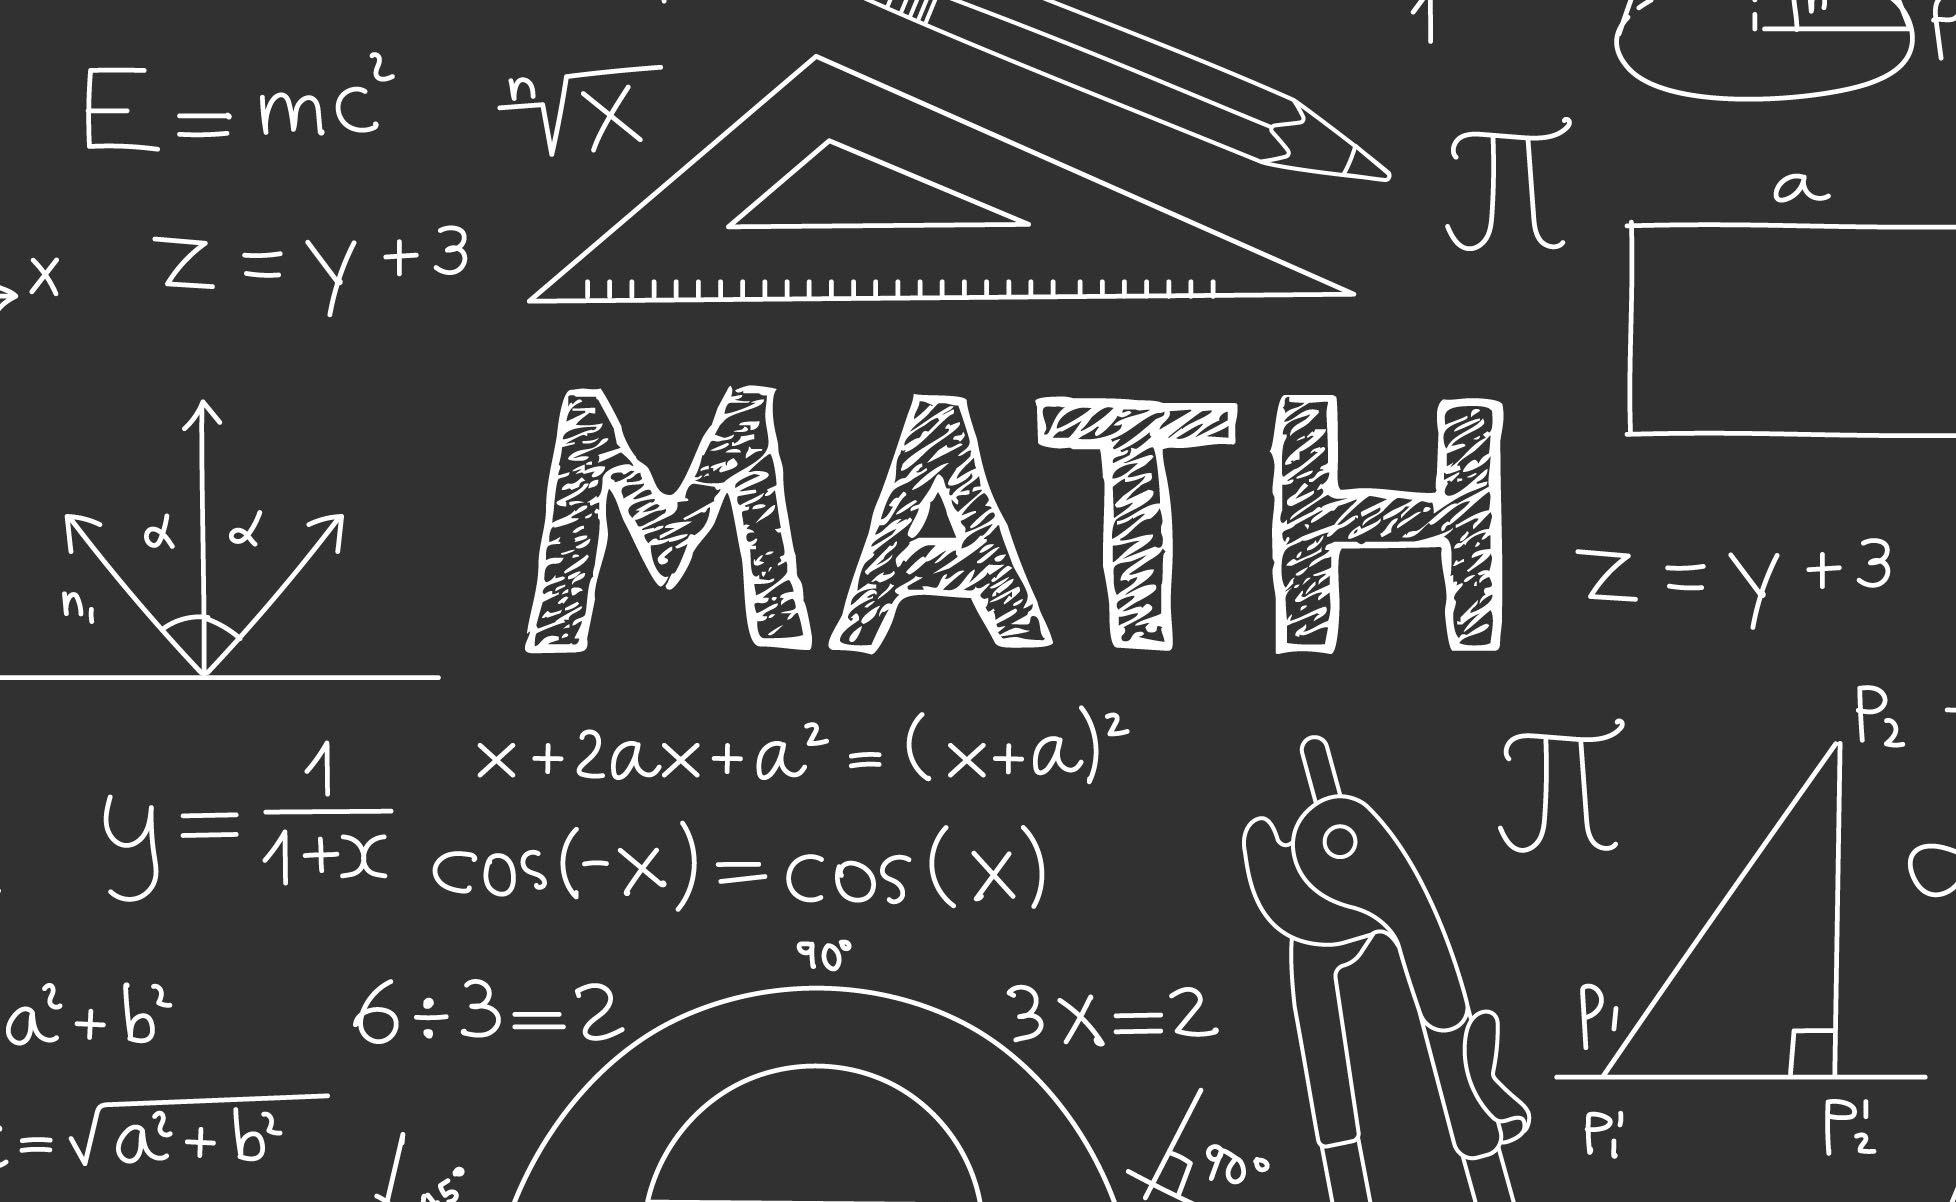
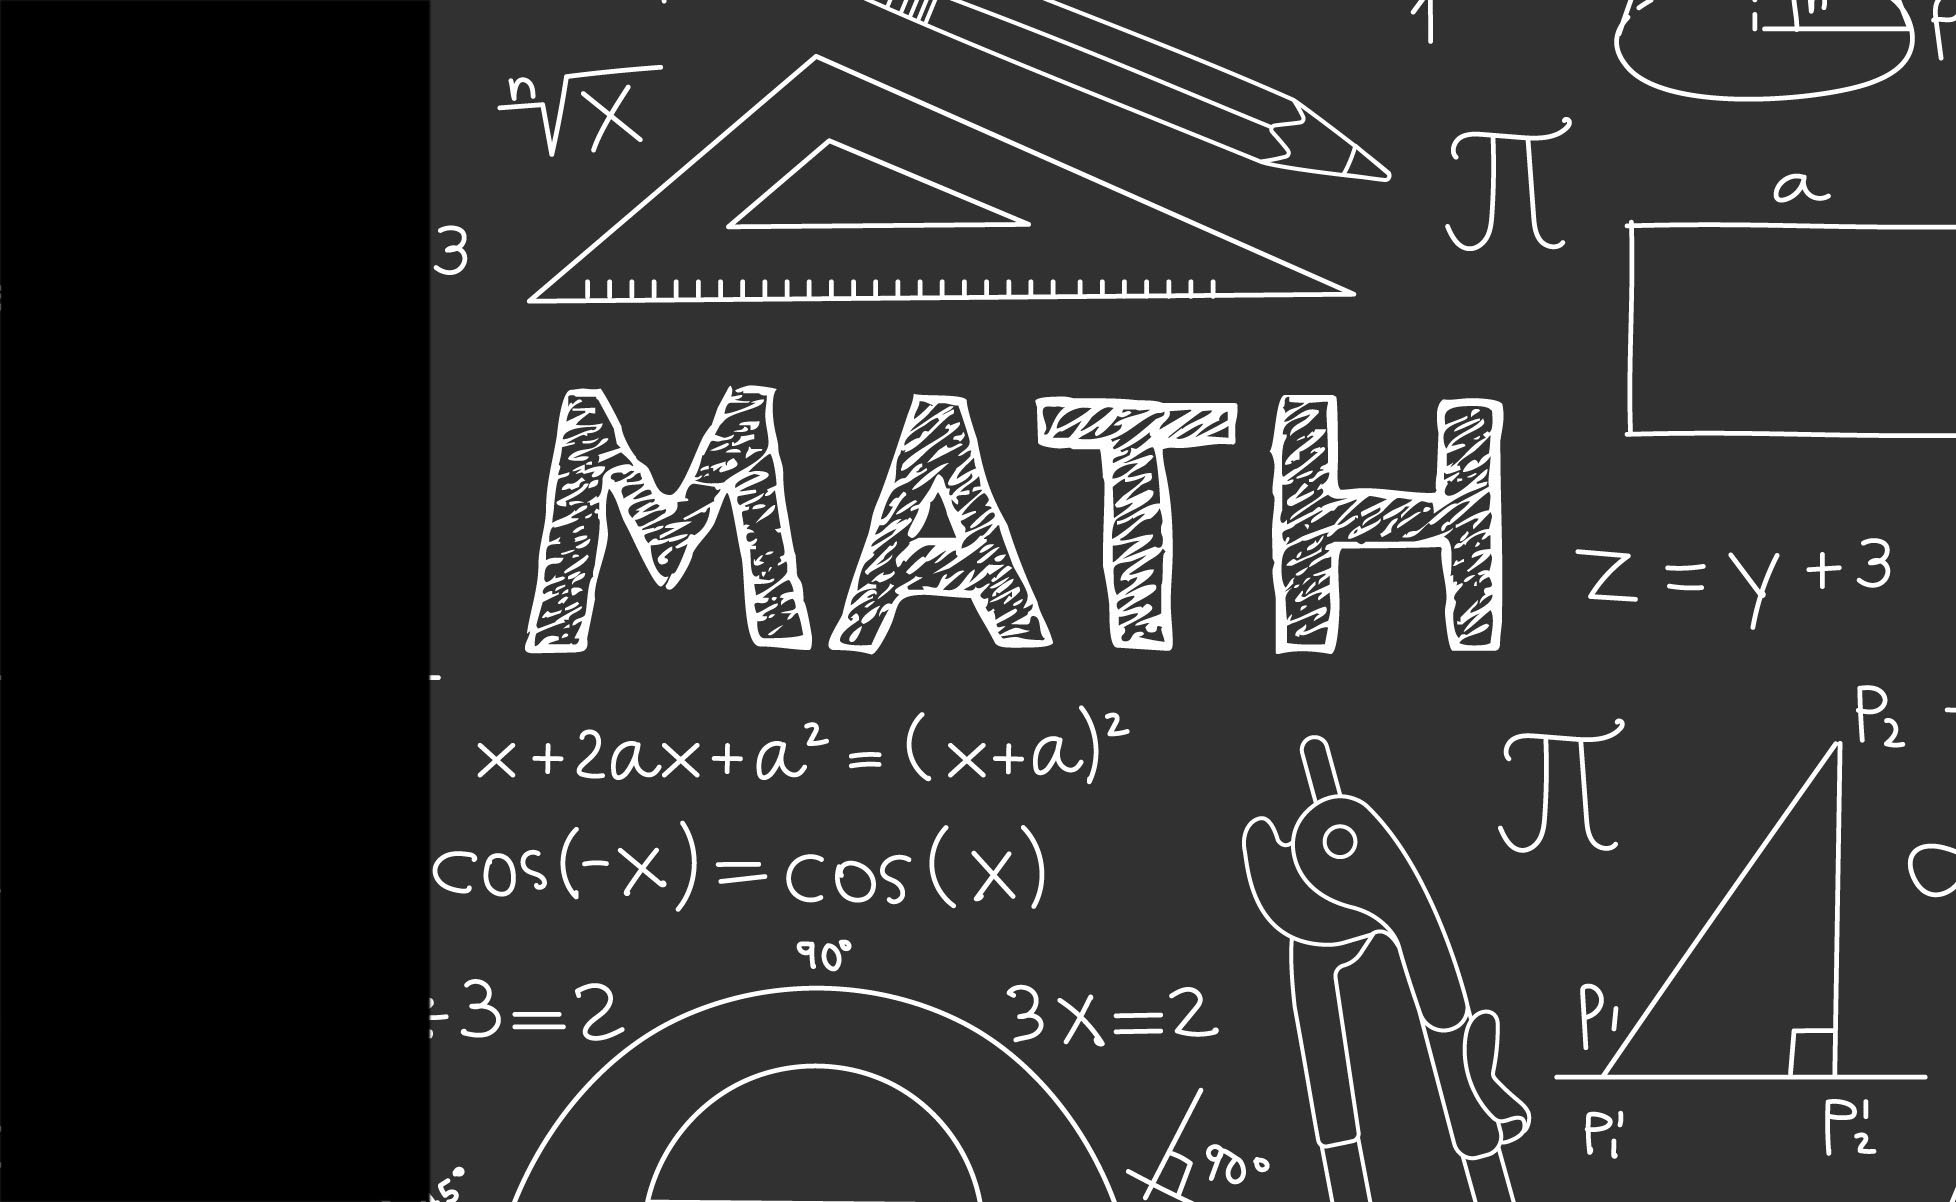
changement css

Changed region(s): [[0.0, 0.0, 0.2183, 1.0]]

diff --git a/assets/css/style.css b/assets/css/style.css
@@ -13,23 +13,21 @@ body{
     
 }
 header{
-background: white;
-width : 100%;
+background: black;
 text-align: center;
+border-bottom: solid 3px orangered;
+
 }
 img#imageheader{
 
-    width: 50%;
-    height: 150px;
-    opacity: 0.3;
+    width: 100%;
+    height: 100%;
 
 }
 main{
-    min-height: 600px;
     
-    background: url(../images/mathbg.jpg);
-    background-repeat: no-repeat;
-    background-size: 100%;
+    background: black;
+    min-height: 580px;
     
 }
    
@@ -37,7 +35,7 @@ main{
     width: 500px;
     height: 500px;
     position: absolute;
-    top: 50%;
+    top: 60%;
     left: 50%;
     transform:translate(-50%, -50%);
     -webkit-transform:translate(-50%, -50%);
@@ -52,8 +50,8 @@ main{
 position: relative;
 width: 150px;
 height: 150px;
-border : solid 1px;
-background-color: black;
+background-color: #43494e;
+box-shadow: 10px 5px 5px orangered;
 -webkit-border-radius: 5px;
 -moz-border-radius: 5px;
 -ms-border-radius: 5px;
@@ -123,6 +121,7 @@ input.resultat{
 input{
 
     color:white;
+
 }
 p{
 
@@ -135,6 +134,10 @@ footer{
     background-color: #43494e;
     height: 150px;
     width: 100%;
+}
+#divfooter{
+
+    padding-top: 20px
 }
 #text{
 

diff --git a/header.php b/header.php
@@ -13,6 +13,6 @@
 
     <header>
     
-    <img src="assets/images/MATH_logo.png" id="imageheader">
+    <img src="assets/images/bgmath.jpg" id="imageheader">
     
     </header>
